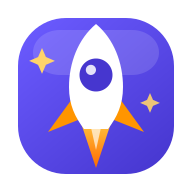
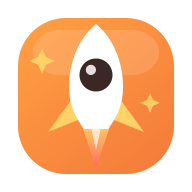
İsti 'tülkü' rəng palitrasına keç (Fox Orange + cream + qızılı)
- globals.css @theme: brand=Fox Orange #f47b3a, accent=Honey/Golden, fon=Vanilla Cream,
  mətn=Cocoa; success=zümrüd yaşılı, danger=Coral. Tünd rejim isti cocoa oldu.
- Tema meta/manifest rəngləri yeniləndi.
- Wordmark artıq gradient yox, solid tülkü rəngi.
- Logo/favicon/PWA ikonları/OG şəkli isti palitraya (tülkü raket) keçdi; mascot tangerine.
- SW keş v14.

diff --git a/app/globals.css b/app/globals.css
@@ -3,52 +3,52 @@
 /* dark: variantı OS deyil, bizim html.dark sinfimizə bağlansın (Ayarlar → tünd rejim) */
 @custom-variant dark (&:where(html.dark, html.dark *));
 
-/* Bilik Yolu — işıqlı, dostyana dizayn tokenləri (indigo + isti amber) */
+/* Imparo — isti, dostyana "tülkü" palitrası (Fox Orange + qızılı + cream). */
 @theme {
-  --color-brand: #5b4bf5; /* əsas indigo-bənövşəyi */
-  --color-brand-dark: #4636cf; /* hover */
-  --color-brand-soft: #5334cc; /* vurğu mətni (işıqlı fonda oxunaqlı) */
+  --color-brand: #f47b3a; /* Fox Orange — əsas brend */
+  --color-brand-dark: #de6428; /* hover / 3D dərinlik */
+  --color-brand-soft: #c2571f; /* cream fonda oxunaqlı vurğu mətni */
 
-  --color-accent: #ff9500; /* isti amber — XP/streak/vurğular */
-  --color-accent-soft: #ffb84d;
+  --color-accent: #e9a23b; /* Honey — XP/reward/vurğu (oxunaqlı qızılı) */
+  --color-accent-soft: #ffd166; /* Golden Yellow — ulduz/işartı dolğusu */
 
-  --color-ink: #f4f3fb; /* səhifə fonu (yumşaq lavanda-ağ) */
-  --color-panel: #ffffff; /* kartlar */
-  --color-panel-2: #efeefa; /* iç panellər (yumşaq indigo çaları) */
-  --color-line: #e5e2f4; /* kənarlar */
-  --color-muted: #6a687e; /* ikinci dərəcəli mətn */
-  --color-fg: #1c1a30; /* əsas mətn (tünd) */
+  --color-ink: #fff4df; /* səhifə fonu — Vanilla Cream */
+  --color-panel: #fffaf0; /* kartlar (isti ağ) */
+  --color-panel-2: #fdecd0; /* iç panellər (isti krem) */
+  --color-line: #f0ddbf; /* kənarlar (isti) */
+  --color-muted: #8a7461; /* ikinci dərəcəli mətn (isti qəhvəyi) */
+  --color-fg: #3b2723; /* əsas mətn — Cocoa */
 
-  /* Vəziyyət və fənn rəngləri (doymuş, oynaq) */
-  --color-success: #22c55e;
-  --color-success-dark: #15803d;
-  --color-danger: #ef4444;
-  --color-danger-dark: #b91c1c;
-  --color-sky: #38bdf8;
+  /* Vəziyyət və fənn rəngləri */
+  --color-success: #2fb170; /* zümrüd yaşılı — doğru cavab */
+  --color-success-dark: #1e7a4c;
+  --color-danger: #ff6b5e; /* Coral — səhv / challenge */
+  --color-danger-dark: #e24b3d;
+  --color-sky: #38bdf8; /* seriya qoruyucu (buz) */
 
   /* Fənn rəng kodu */
-  --color-subj-math: #5b4bf5; /* Riyaziyyat — indigo */
-  --color-subj-az: #ff5d73; /* Azərbaycan dili — mərcan */
-  --color-subj-en: #22c55e; /* İngilis dili — yaşıl */
+  --color-subj-math: #f47b3a; /* Riyaziyyat — Fox Orange */
+  --color-subj-az: #ff6b5e; /* Azərbaycan dili — Coral */
+  --color-subj-en: #2fb170; /* İngilis dili — yaşıl */
 }
 
 :root {
-  --background: #f4f3fb;
-  --foreground: #1c1a30;
+  --background: #fff4df;
+  --foreground: #3b2723;
 }
 
-/* Tünd rejim — eyni token-ləri tünd dəyərlərlə əvəz edir (Ayarlar → Görünüş).
-   html.dark (yüksək spesifiklik) ki Tailwind-in :root theme-ni üstələsin. */
+/* Tünd rejim — isti "cocoa" tünd (Ayarlar → Görünüş).
+   html.dark (yüksək spesifiklik) Tailwind-in :root theme-ni üstələsin. */
 html.dark {
-  --color-ink: #14121e; /* səhifə fonu */
-  --color-panel: #1e1b2e; /* kartlar */
-  --color-panel-2: #2a2640; /* iç panellər */
-  --color-line: #322e4a; /* kənarlar */
-  --color-muted: #a6a3bd; /* ikinci dərəcəli mətn */
-  --color-fg: #f3f2fb; /* əsas mətn (açıq) */
-  --color-brand-soft: #b3a7ff; /* tünd fonda oxunaqlı vurğu */
-  --background: #14121e;
-  --foreground: #f3f2fb;
+  --color-ink: #241813; /* səhifə fonu — tünd cocoa */
+  --color-panel: #31201a; /* kartlar */
+  --color-panel-2: #3e2a22; /* iç panellər */
+  --color-line: #4a3328; /* kənarlar */
+  --color-muted: #b89e8e; /* ikinci dərəcəli mətn */
+  --color-fg: #fff4df; /* əsas mətn — cream */
+  --color-brand-soft: #ffb38a; /* Peach — tünd fonda oxunaqlı vurğu */
+  --background: #241813;
+  --foreground: #fff4df;
 }
 
 body {

diff --git a/components/Logo.tsx b/components/Logo.tsx
@@ -15,12 +15,12 @@ export default function Logo({ size = 56 }: { size?: number }) {
     >
       <defs>
         <linearGradient id="imparo-tile" x1="10" y1="6" x2="54" y2="58" gradientUnits="userSpaceOnUse">
-          <stop stopColor="#6b5bff" />
-          <stop offset="1" stopColor="#4636cf" />
+          <stop stopColor="#ff9f43" />
+          <stop offset="1" stopColor="#f47b3a" />
         </linearGradient>
         <linearGradient id="imparo-flame" x1="32" y1="41" x2="32" y2="56" gradientUnits="userSpaceOnUse">
-          <stop stopColor="#ffc23d" />
-          <stop offset="1" stopColor="#ff6a00" />
+          <stop stopColor="#ffd166" />
+          <stop offset="1" stopColor="#ff6b5e" />
         </linearGradient>
       </defs>
 
@@ -29,8 +29,8 @@ export default function Logo({ size = 56 }: { size?: number }) {
       <rect x="11" y="10" width="42" height="15" rx="9" fill="#ffffff" opacity="0.14" />
 
       {/* Qanadlar */}
-      <path d="M24 33 L16 44 L26 40 Z" fill="#ff9500" />
-      <path d="M40 33 L48 44 L38 40 Z" fill="#ff9500" />
+      <path d="M24 33 L16 44 L26 40 Z" fill="#ffd166" />
+      <path d="M40 33 L48 44 L38 40 Z" fill="#ffd166" />
       {/* Alov */}
       <path d="M27 41 L32 56 L37 41 Z" fill="url(#imparo-flame)" />
       <path d="M30 41 L32 50 L34 41 Z" fill="#ffffff" opacity="0.65" />
@@ -41,12 +41,12 @@ export default function Logo({ size = 56 }: { size?: number }) {
         fill="#ffffff"
       />
       {/* Pəncərə */}
-      <circle cx="32" cy="25" r="5.5" fill="#4636cf" />
+      <circle cx="32" cy="25" r="5.5" fill="#3b2723" />
       <circle cx="30.3" cy="23.3" r="1.7" fill="#ffffff" opacity="0.85" />
 
       {/* Qığılcımlar */}
-      <path d="M14 16 l1.3 3 3 1.3 -3 1.3 -1.3 3 -1.3 -3 -3 -1.3 3 -1.3 z" fill="#ffd36b" />
-      <path d="M50 31 l1 2.3 2.3 1 -2.3 1 -1 2.3 -1 -2.3 -2.3 -1 2.3 -1 z" fill="#ffd36b" opacity="0.9" />
+      <path d="M14 16 l1.3 3 3 1.3 -3 1.3 -1.3 3 -1.3 -3 -3 -1.3 3 -1.3 z" fill="#ffd166" />
+      <path d="M50 31 l1 2.3 2.3 1 -2.3 1 -1 2.3 -1 -2.3 -2.3 -1 2.3 -1 z" fill="#ffd166" opacity="0.9" />
     </svg>
   );
 }

diff --git a/app/opengraph-image.tsx b/app/opengraph-image.tsx
@@ -16,19 +16,18 @@ export default function OpengraphImage() {
           flexDirection: "column",
           alignItems: "center",
           justifyContent: "center",
-          background: "linear-gradient(135deg, #5b4bf5 0%, #4636cf 100%)",
+          background: "linear-gradient(135deg, #ff9f43 0%, #de6428 100%)",
           color: "white",
           fontFamily: "sans-serif",
         }}
       >
         {/* Loqo işarəsi — Imparo raketi */}
-        <svg width="130" height="130" viewBox="0 0 64 64" fill="none" xmlns="http://www.w3.org/2000/svg">
-          <rect x="6" y="6" width="52" height="52" rx="16" fill="#5b4bf5" />
-          <path d="M24 33 L16 44 L26 40 Z" fill="#ff9500" />
-          <path d="M40 33 L48 44 L38 40 Z" fill="#ff9500" />
-          <path d="M27 41 L32 56 L37 41 Z" fill="#ff6a00" />
+        <svg width="150" height="150" viewBox="0 0 64 64" fill="none" xmlns="http://www.w3.org/2000/svg">
+          <path d="M24 33 L16 44 L26 40 Z" fill="#ffd166" />
+          <path d="M40 33 L48 44 L38 40 Z" fill="#ffd166" />
+          <path d="M27 41 L32 56 L37 41 Z" fill="#ff6b5e" />
           <path d="M32 8 C38 13 41 21 41 29 C41 35 39 39 36 43 L28 43 C25 39 23 35 23 29 C23 21 26 13 32 8 Z" fill="#ffffff" />
-          <circle cx="32" cy="25" r="5.5" fill="#4636cf" />
+          <circle cx="32" cy="25" r="5.5" fill="#3b2723" />
         </svg>
         <div style={{ marginTop: 40, fontSize: 84, fontWeight: 800 }}>Imparo</div>
         <div style={{ marginTop: 12, fontSize: 36, opacity: 0.9 }}>

diff --git a/components/Mascot.tsx b/components/Mascot.tsx
@@ -82,20 +82,20 @@ export default function Mascot({
           <g className={waveClass}>
             <path
               d="M80 51 Q98 47 104 35"
-              stroke="#ff9500"
+              stroke="#ff9f43"
               strokeWidth="9"
               strokeLinecap="round"
               fill="none"
             />
-            <circle cx="105" cy="33" r="8" fill="#ff9500" />
+            <circle cx="105" cy="33" r="8" fill="#ff9f43" />
           </g>
         )}
 
         {/* ulduz gövdəsi (yumru künclər üçün eyni rəngli qalın stroke) */}
         <polygon
           points={star}
-          fill="#ff9500"
-          stroke="#ff9500"
+          fill="#ff9f43"
+          stroke="#ff9f43"
           strokeWidth="11"
           strokeLinejoin="round"
           strokeLinecap="round"

diff --git a/components/Sidebar.tsx b/components/Sidebar.tsx
@@ -138,7 +138,7 @@ export default function Sidebar() {
       <aside className="fixed inset-y-0 left-0 z-30 hidden w-56 flex-col border-r border-line bg-panel px-3 py-5 lg:flex">
         <Link href="/dashboard" className="flex items-center gap-2.5 px-2">
           <Logo size={32} />
-          <span className="bg-gradient-to-r from-brand to-accent bg-clip-text text-lg font-extrabold text-transparent">
+          <span className="text-lg font-extrabold text-brand">
             Imparo
           </span>
         </Link>

diff --git a/app/page.tsx b/app/page.tsx
@@ -72,7 +72,7 @@ export default function LandingPage() {
         <div className="mx-auto flex max-w-6xl items-center justify-between px-5 py-3.5">
           <div className="flex items-center gap-2.5">
             <Logo size={34} />
-            <span className="gradient-pan bg-gradient-to-r from-brand to-accent bg-clip-text text-lg font-extrabold text-transparent">
+            <span className="text-lg font-extrabold text-brand">
               Imparo
             </span>
           </div>

diff --git a/public/sw.js b/public/sw.js
@@ -5,7 +5,7 @@
 //   - Naviqasiya (səhifə): əvvəlcə şəbəkə, offline olsa keşdən/ana səhifədən.
 //   - Statik fayllar (_next/static, şəkil, şrift): stale-while-revalidate.
 
-const CACHE = "bilik-yolu-v13";
+const CACHE = "bilik-yolu-v14";
 const OFFLINE_URL = "/";
 
 // Şəbəkə çatmayanda göstəriləcək minimal offline HTML.

diff --git a/app/manifest.ts b/app/manifest.ts
@@ -12,8 +12,8 @@ export default function manifest(): MetadataRoute.Manifest {
     scope: "/",
     display: "standalone",
     orientation: "portrait",
-    background_color: "#f4f3fb",
-    theme_color: "#ff9500",
+    background_color: "#fff4df",
+    theme_color: "#f47b3a",
     lang: "az",
     categories: ["education"],
     icons: [

diff --git a/app/layout.tsx b/app/layout.tsx
@@ -126,7 +126,7 @@ const jsonLd = {
 
 // Mobil brauzer üst zolağının rəngi (brend narıncı).
 export const viewport: Viewport = {
-  themeColor: "#ff9500",
+  themeColor: "#f47b3a",
 };
 
 export default function RootLayout({
